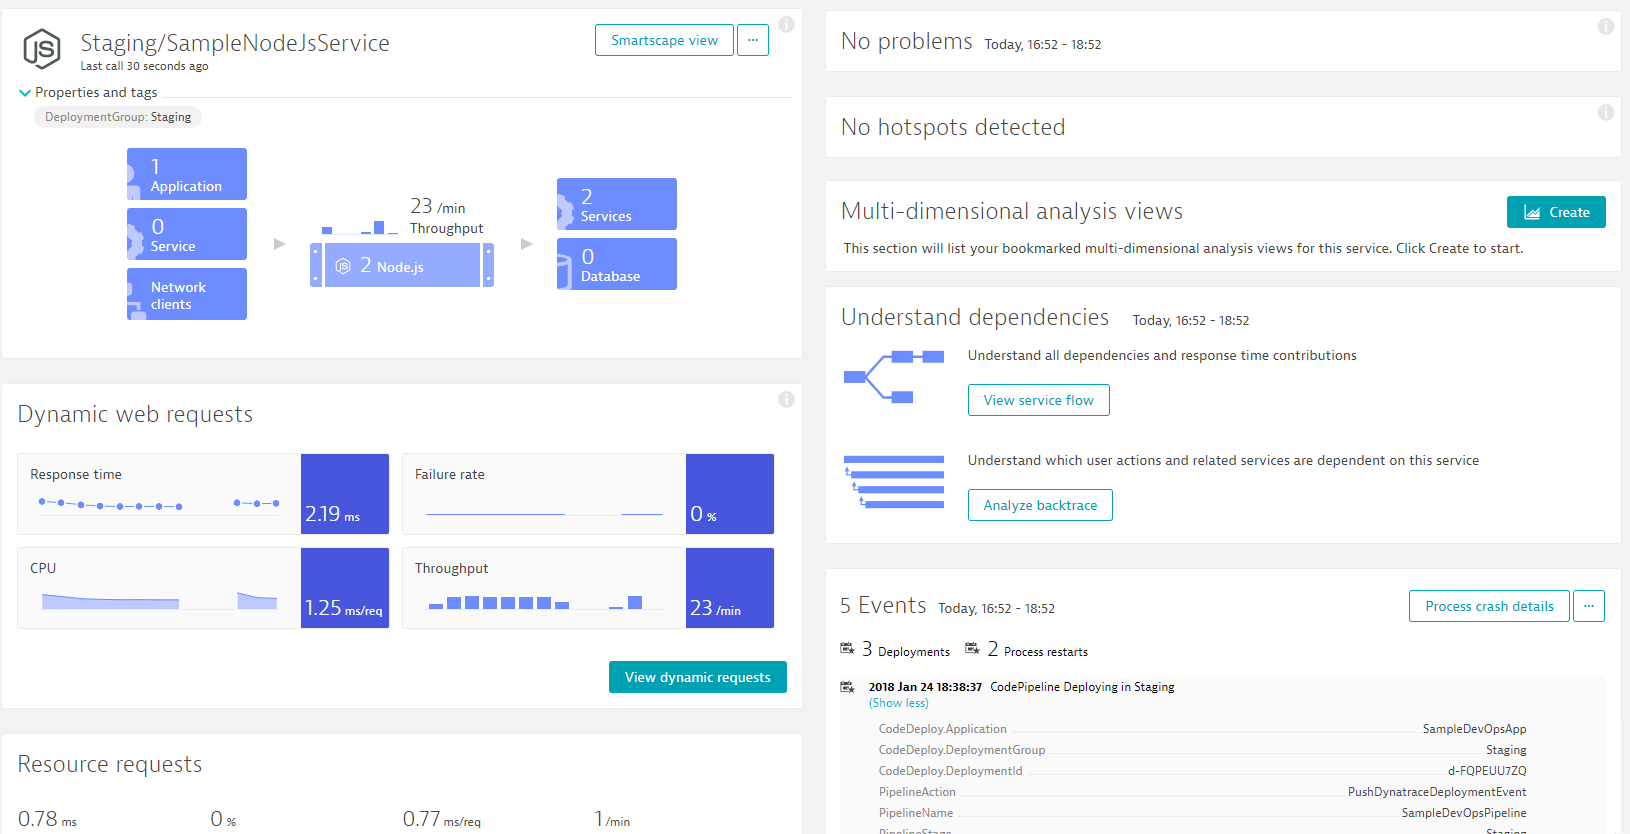
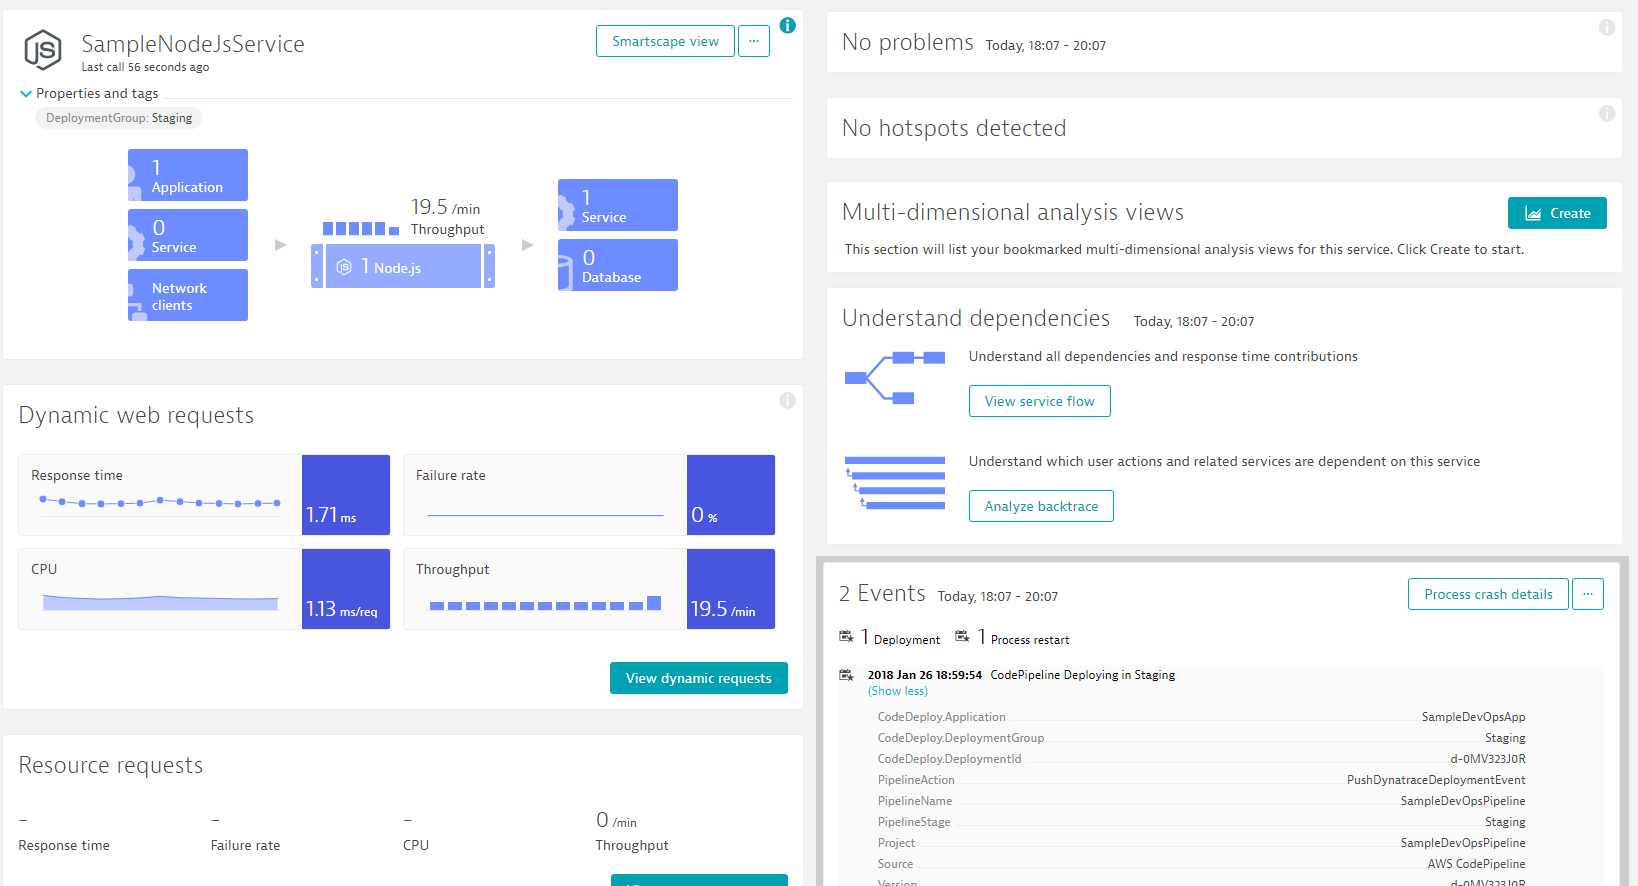
more readme updates

diff --git a/README.md b/README.md
@@ -152,11 +152,14 @@ export DT_CLUSTER_ID="$DEPLOYMENT_GROUP_NAME $APPLICATION_NAME"
 If you browse to your Dynatrace Web UI and then select Transaction & Services you will see the two detected services with their correct names and also the environment they run in (Staging or Production)
 ![](./images/createstack_dynatrace1.png)
 
-Lets click on the Staging Service and explore what Dynatrace sees within that service:
+Lets click on the Service in Staging and explore what Dynatrace sees within that service:
 ![](./images/createstack_dynatrace2.png)
 
-The longer you run your application and services the more historical data we have. But we already see Response Time, Failure Rate, Throughput. We see where the Node.js service runs on and we also get all the deployment information from the AWS CodePipeline. If you want to learn more about how to explore this data from here, e.g: see down to method level, exceptions, ... then check out our YouTube Dynatrace Performance Clinic on [Basic Diagnositcs with Dynatrace](https://www.youtube.com/watch?v=OEGk4JN9wDg&list=PLqt2rd0eew1YFx9m8dBFSiGYSBcDuWG38&index=2&t=810s)
+You will notice that the service has our DeploymentGroup:Staging tag applied. That came in through the rule we defined earlier. The name "Staging" comes from an environment variable that is applied to the underlying process.
+We also start seeing performance metrics such as Response Time, Failure Rate, Throughput, CPU. The longer our service runs the more data we get.
+Also check out the events section. If you expand it you will find the deployment information from our AWS CodePipeline. This information comes in from a Lambda function that gets called. It is the function that failed in the beginning because the tags were not yet applied. Hope all this now makes sense :-)
 
+If you want to learn more about how to explore this data from here, e.g: see down to method level, exceptions, ... then check out our YouTube Dynatrace Performance Clinic on [Basic Diagnositcs with Dynatrace](https://www.youtube.com/watch?v=OEGk4JN9wDg&list=PLqt2rd0eew1YFx9m8dBFSiGYSBcDuWG38&index=2&t=810s)
 
 ## 2. Lets run another CodePipeline
 
